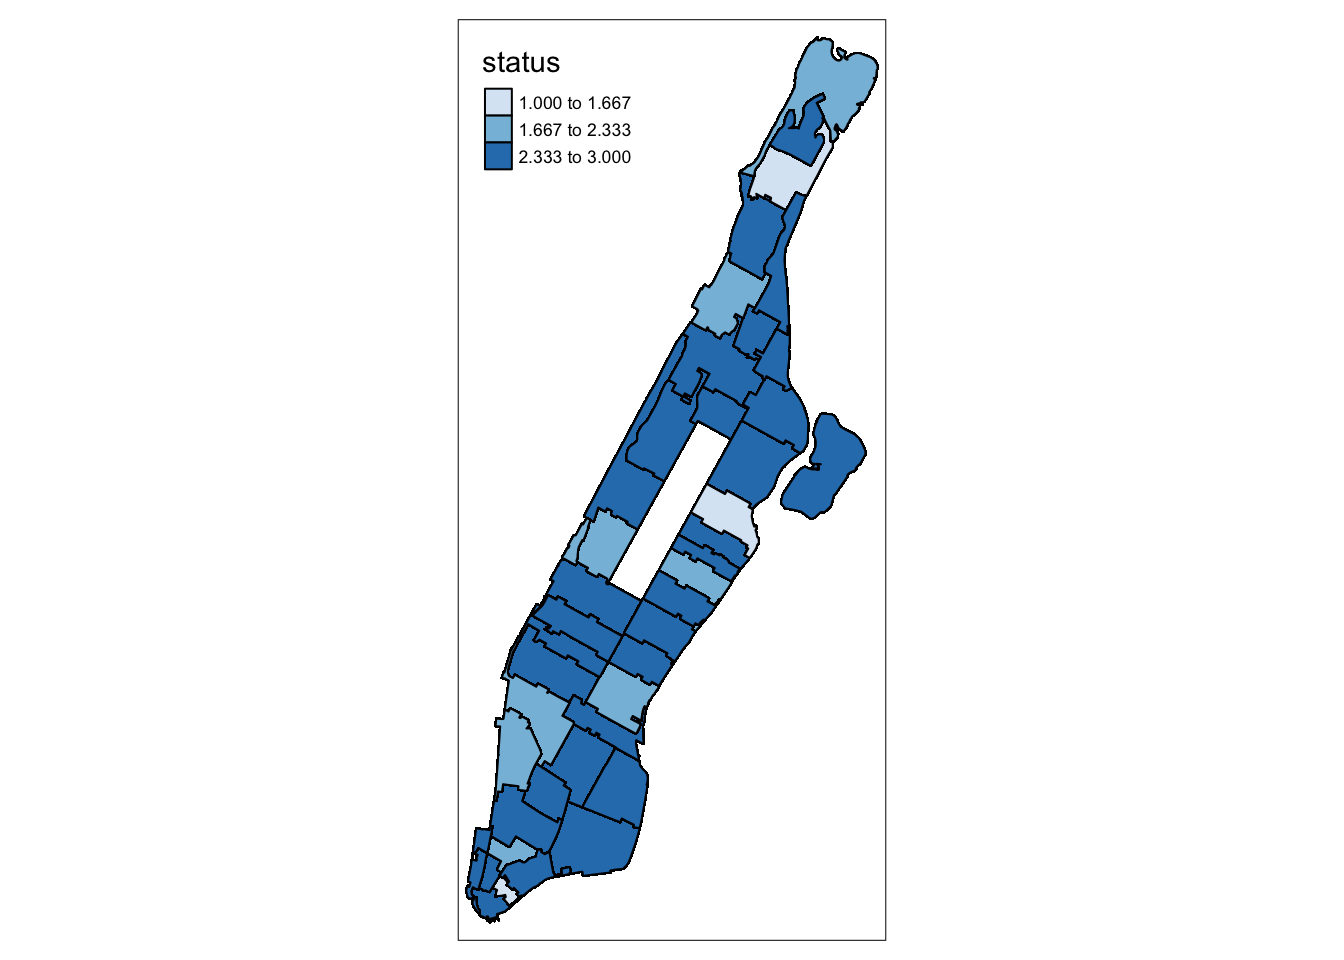
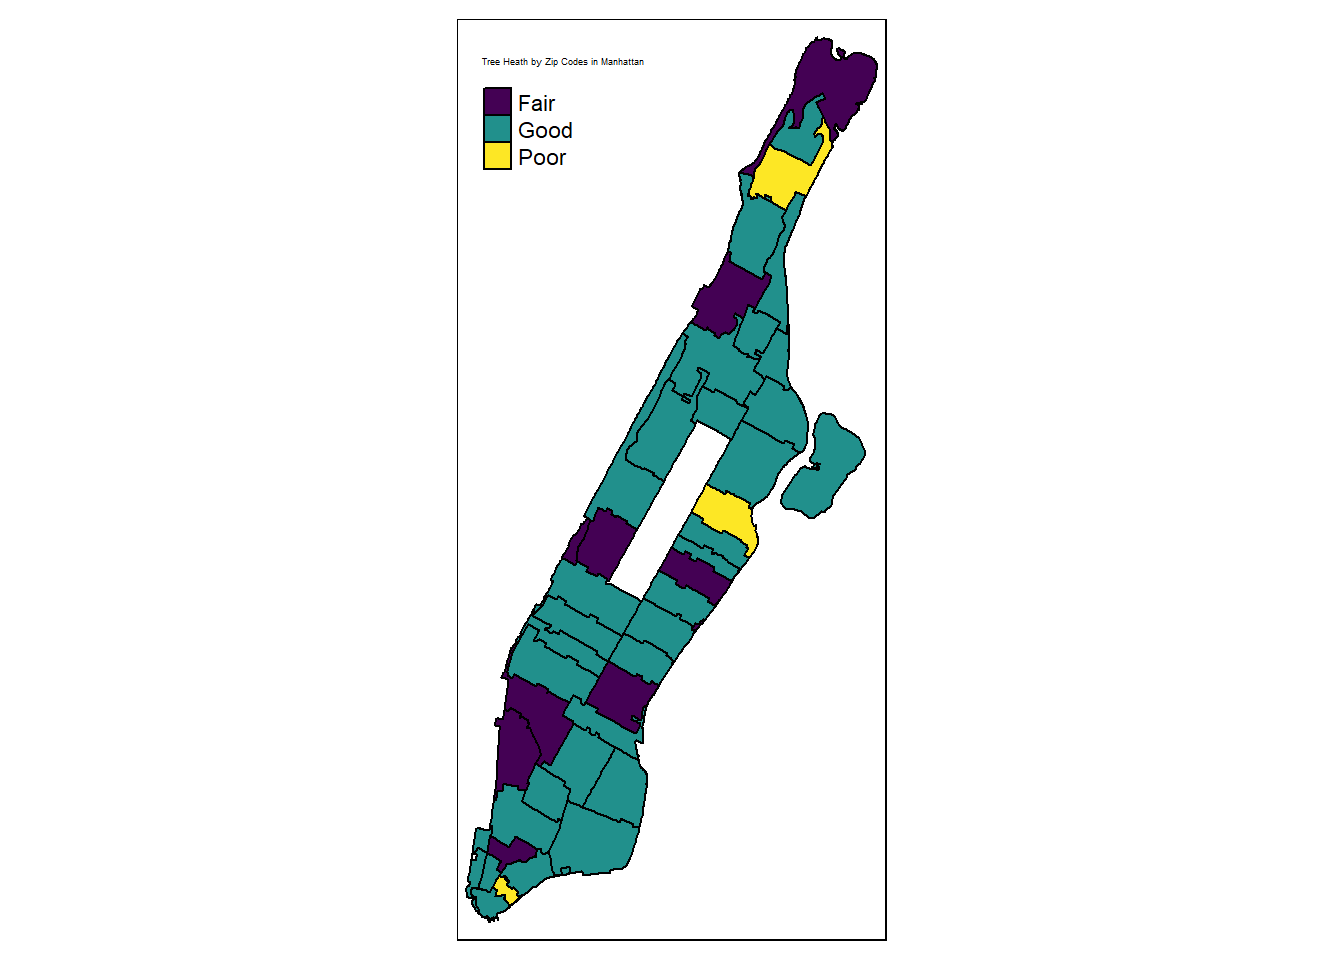
adding more maps -sharon

Changed region(s): [[0.3438, 0.0312, 0.6562, 0.9688], [0.3438, 0.0625, 0.4688, 0.1875]]

diff --git a/sharon.html b/sharon.html
@@ -299,6 +299,7 @@ $(document).ready(function () {
 <pre class="r"><code># loading the necessary packages
 
 library(tidyverse)</code></pre>
+<pre><code>## Warning: package &#39;tidyverse&#39; was built under R version 4.3.2</code></pre>
 <pre><code>## ── Attaching core tidyverse packages ──────────────────────── tidyverse 2.0.0 ──
 ## ✔ dplyr     1.1.3     ✔ readr     2.1.4
 ## ✔ forcats   1.0.0     ✔ stringr   1.5.0
@@ -325,8 +326,10 @@ library(tidyverse)</code></pre>
 ## 
 ##     layout</code></pre>
 <pre class="r"><code>library(sf)</code></pre>
-<pre><code>## Linking to GEOS 3.11.0, GDAL 3.5.3, PROJ 9.1.0; sf_use_s2() is TRUE</code></pre>
+<pre><code>## Warning: package &#39;sf&#39; was built under R version 4.3.2</code></pre>
+<pre><code>## Linking to GEOS 3.11.2, GDAL 3.7.2, PROJ 9.3.0; sf_use_s2() is TRUE</code></pre>
 <pre class="r"><code>library(tmap)</code></pre>
+<pre><code>## Warning: package &#39;tmap&#39; was built under R version 4.3.2</code></pre>
 <pre><code>## The legacy packages maptools, rgdal, and rgeos, underpinning the sp package,
 ## which was just loaded, will retire in October 2023.
 ## Please refer to R-spatial evolution reports for details, especially
@@ -372,10 +375,11 @@ trees_2015 =
 ## 
 ## ℹ Use `spec()` to retrieve the full column specification for this data.
 ## ℹ Specify the column types or set `show_col_types = FALSE` to quiet this message.</code></pre>
-<pre class="r"><code># Read-in shapefile 
+<pre class="r"><code># reading in the nyc shapefile 
+
 zip_nyc &lt;- st_read(&quot;small_data/MODZCTA_2010.shp&quot;)</code></pre>
 <pre><code>## Reading layer `MODZCTA_2010&#39; from data source 
-##   `/Users/gracesantos/Desktop/p8105/p8105_final/small_data/MODZCTA_2010.shp&#39; 
+##   `C:\Users\Kulal\OneDrive - Columbia University Irving Medical Center\Fall 2023\Data Science\P8105\p8105_final\small_data\MODZCTA_2010.shp&#39; 
 ##   using driver `ESRI Shapefile&#39;
 ## Simple feature collection with 178 features and 2 fields
 ## Geometry type: MULTIPOLYGON
@@ -415,28 +419,47 @@ zip_nyc &lt;- st_read(&quot;small_data/MODZCTA_2010.shp&quot;)</code></pre>
 <pre class="r"><code>tm_shape(zip_nyc) +
   tm_polygons()</code></pre>
 <p><img src="sharon_files/figure-html/unnamed-chunk-3-1.png" width="672" /></p>
-<pre class="r"><code># Join trees data with sf object
+<pre class="r"><code># joining the trees data with sf object
 trees_zip &lt;- 
   merge(zip_nyc, trees_2015, 
                         by.x = &quot;MODZCTA&quot;,
                         by.y = &quot;postcode&quot;) |&gt; 
-  mutate(status = case_match(
-    health,
-    &quot;Good&quot; ~ 3,
-    &quot;Fair&quot; ~ 2,
-    &quot;Poor&quot; ~ 1
-  ))</code></pre>
-<pre class="r"><code>trees_zip |&gt; 
+  janitor::clean_names()</code></pre>
+<pre class="r"><code># map of tree health in Manhattan
+
+trees_zip |&gt; 
   drop_na() |&gt; 
   filter(borough == &quot;Manhattan&quot;) |&gt; 
   tm_shape() +   
-  tm_polygons(col = &quot;status&quot;,
+  tm_polygons(col = &quot;health&quot;,
+              style = &quot;equal&quot;,
+              n = 3,
+              palette = &quot;viridis&quot;,
+              border.col = &quot;black&quot;,
+              title = &quot;Tree Heath by Zip Codes in Manhattan&quot;)</code></pre>
+<p><img src="sharon_files/figure-html/unnamed-chunk-5-1.png" width="672" /></p>
+<pre class="r"><code># map of tree health in Brooklyn
+
+trees_zip |&gt; 
+  drop_na() |&gt; 
+  filter(borough == &quot;Brooklyn&quot;) |&gt; 
+  tm_shape() +   
+  tm_polygons(col = &quot;health&quot;,
               style = &quot;equal&quot;,
               n = 3,
               palette = &quot;Blues&quot;,
-              border.col = &quot;black&quot;)</code></pre>
-<pre><code>## Legend labels were too wide. The labels have been resized to 0.55, 0.55, 0.55. Increase legend.width (argument of tm_layout) to make the legend wider and therefore the labels larger.</code></pre>
-<p><img src="sharon_files/figure-html/unnamed-chunk-5-1.png" width="672" /></p>
+              border.col = &quot;black&quot;,
+              title = &quot;Tree Heath by Zip Codes in Brooklyn&quot;)</code></pre>
+<p><img src="sharon_files/figure-html/unnamed-chunk-6-1.png" width="672" /></p>
+<pre class="r"><code>#trees_zip |&gt; 
+  #drop_na() |&gt; 
+  #tm_shape() +   
+  #tm_polygons(col = &quot;health&quot;,
+              #style = &quot;equal&quot;,
+              #n = 3,
+              #palette = &quot;Blues&quot;,
+              #border.col = &quot;black&quot;,
+              #title = &quot;Tree Heath by Zip Codes in Brooklyn&quot;)</code></pre>
 <pre class="r"><code># map based on tree health
 
 #trees_2015 |&gt;
